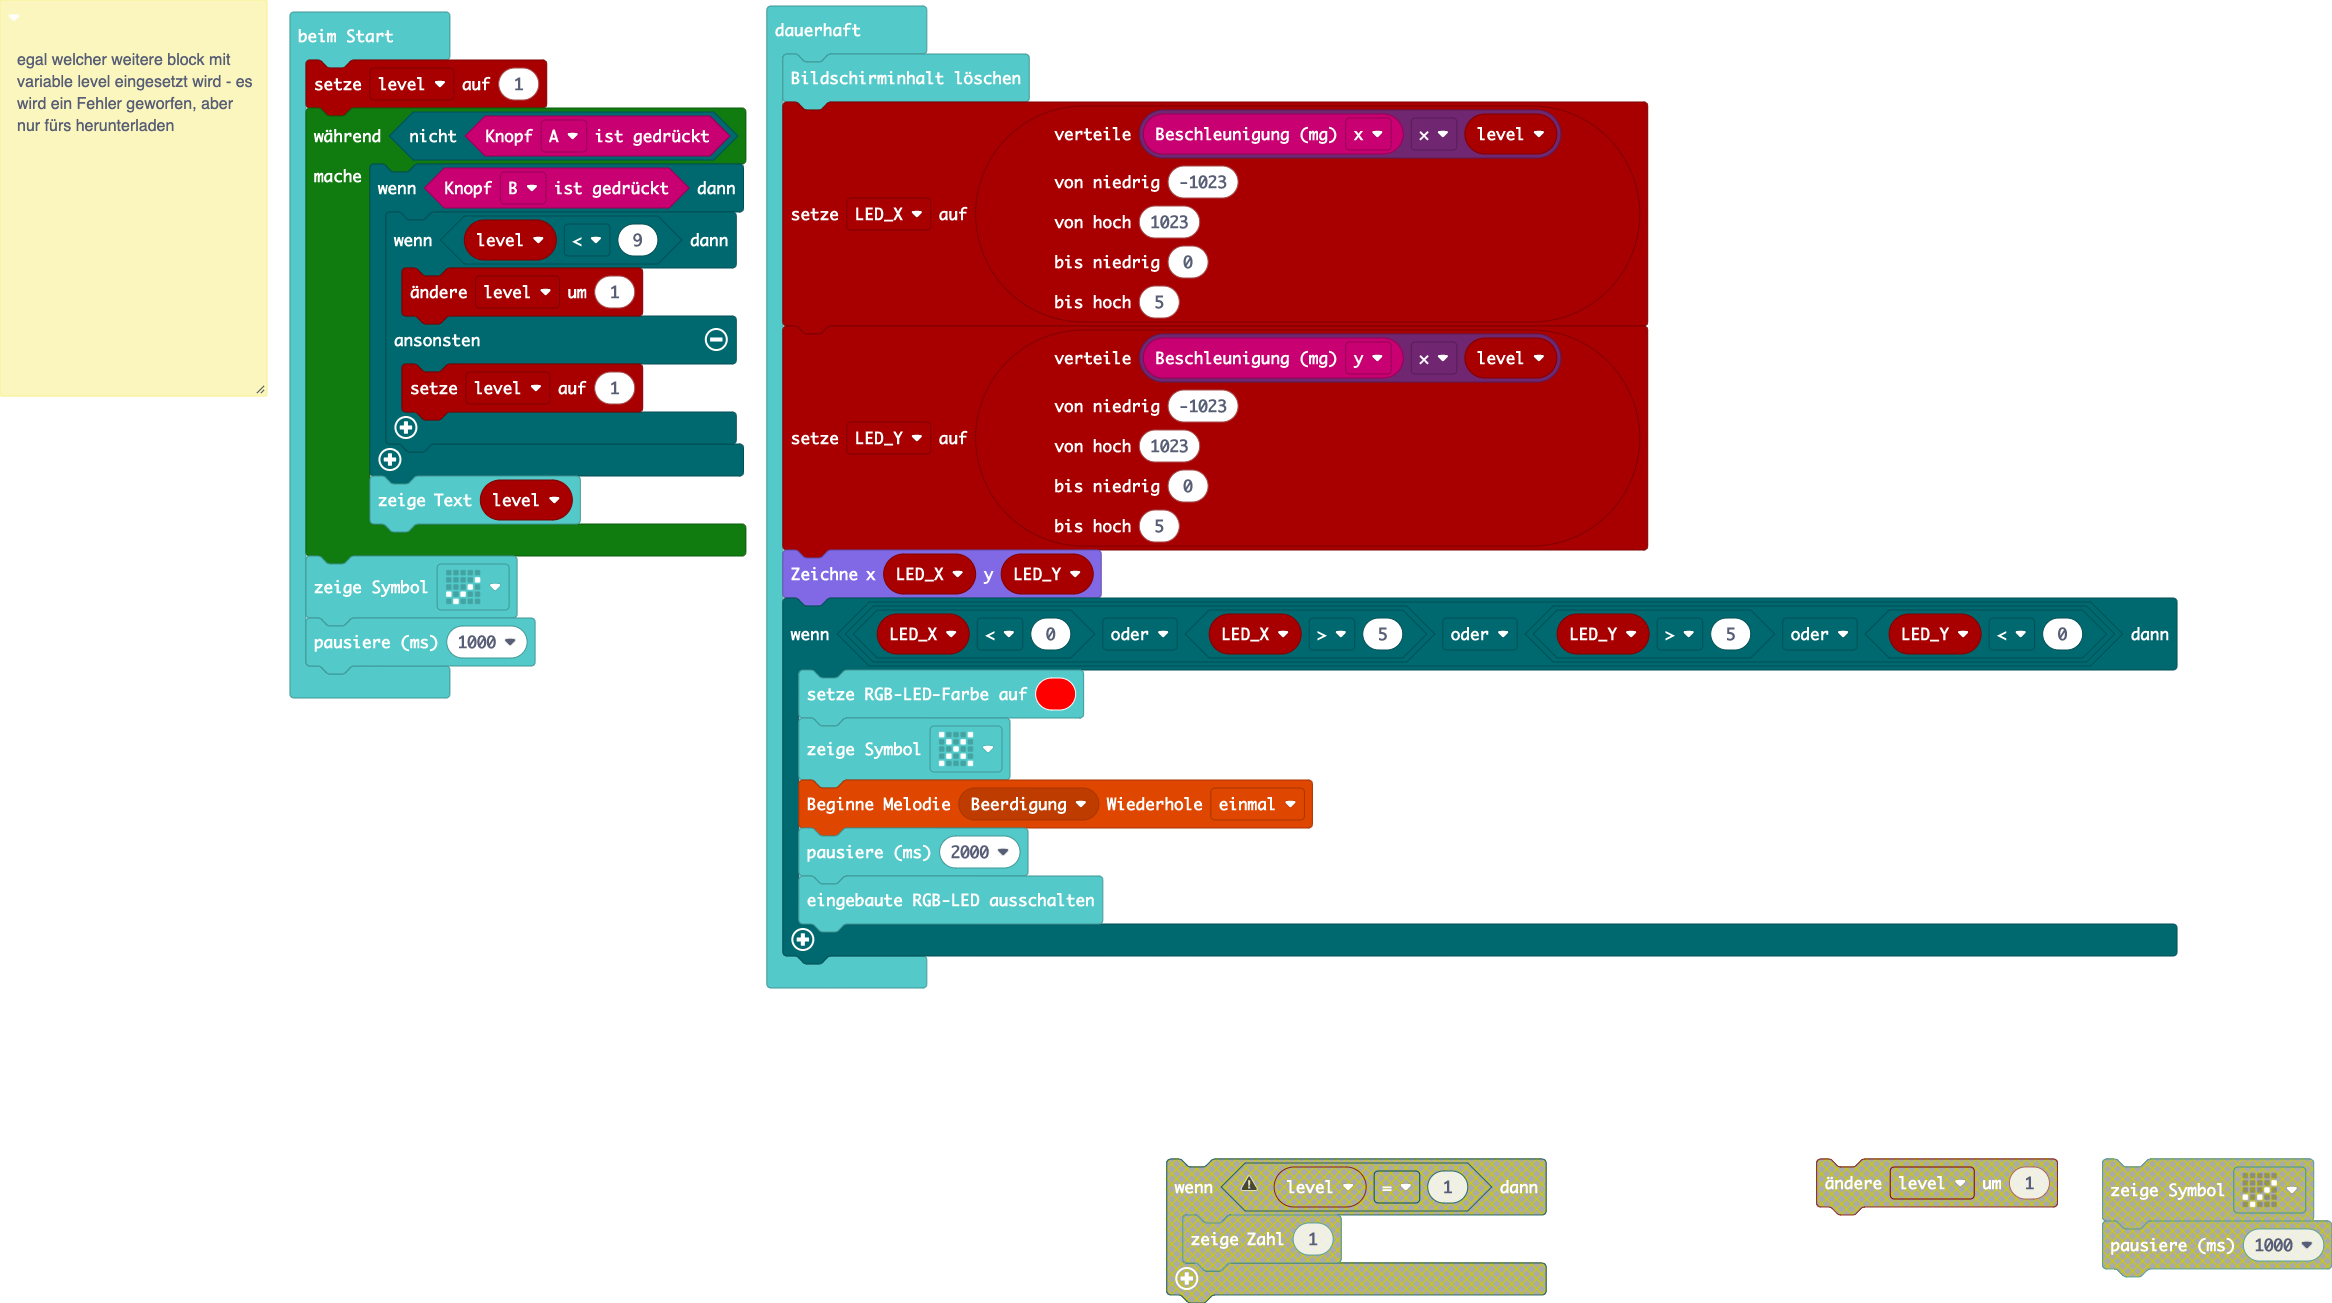
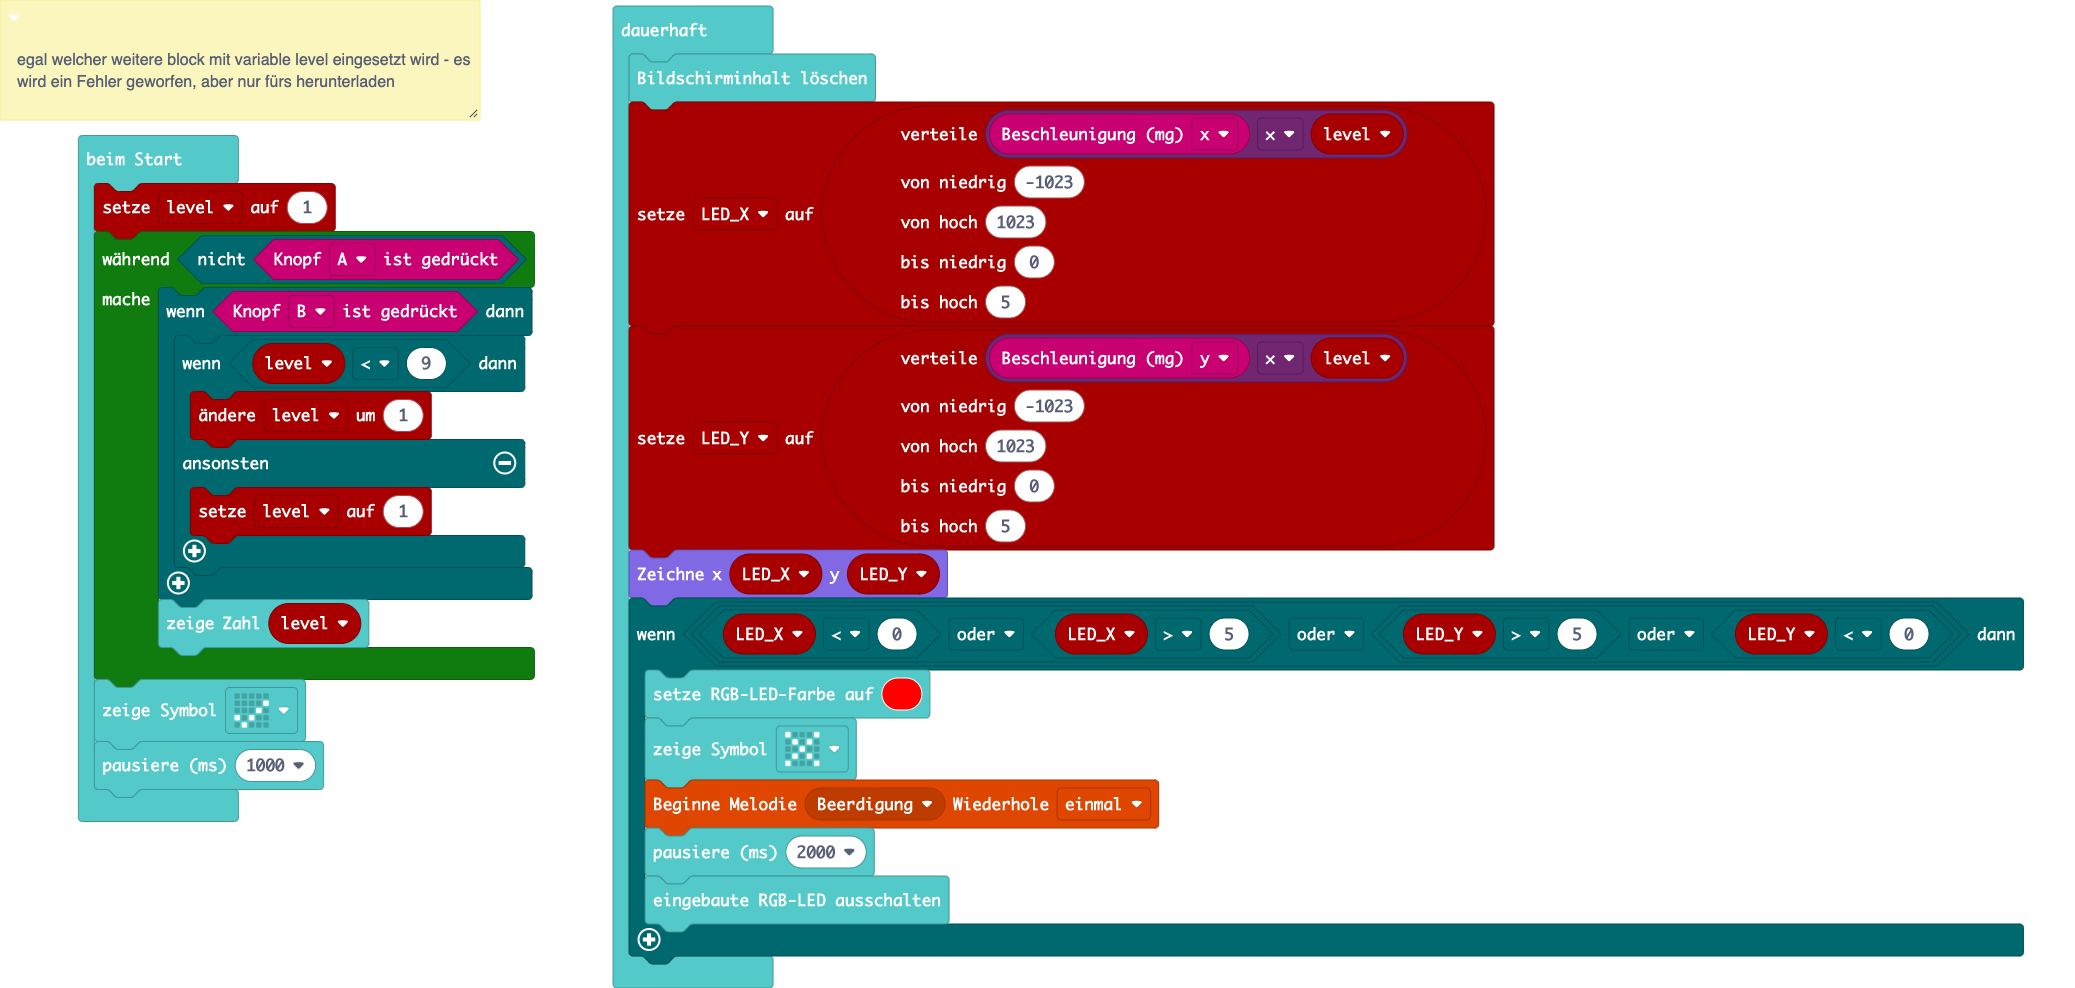
Aktualisiere main.blocks, main.ts, main.py

diff --git a/main.ts b/main.ts
@@ -12,7 +12,7 @@ while (!(input.buttonIsPressed(Button.A))) {
             level = 1
         }
     }
-    basic.showString("" + (level))
+    basic.showNumber(level)
 }
 basic.showIcon(IconNames.Yes)
 basic.pause(1000)

diff --git a/main.py b/main.py
@@ -1,16 +1,18 @@
 """
 
-da die Variablen mit let deklariert werden, sind diese nur innerhalb ihres Blockes nutzbar
-
-wird in javascrpt etwas mit var erzeugt, ist es nicht konvertierbar zu den Blöcken
+egal welcher weitere block mit variable level eingesetzt wird - es wird ein Fehler geworfen, aber nur fürs herunterladen
 
 """
 LED_Y = 0
 LED_X = 0
 level = 1
 while not (input.button_is_pressed(Button.A)):
-    if True:
-        pass
+    if input.button_is_pressed(Button.B):
+        if level < 9:
+            level += 1
+        else:
+            level = 1
+    basic.show_string("" + str((level)))
 basic.show_icon(IconNames.YES)
 basic.pause(1000)
 
